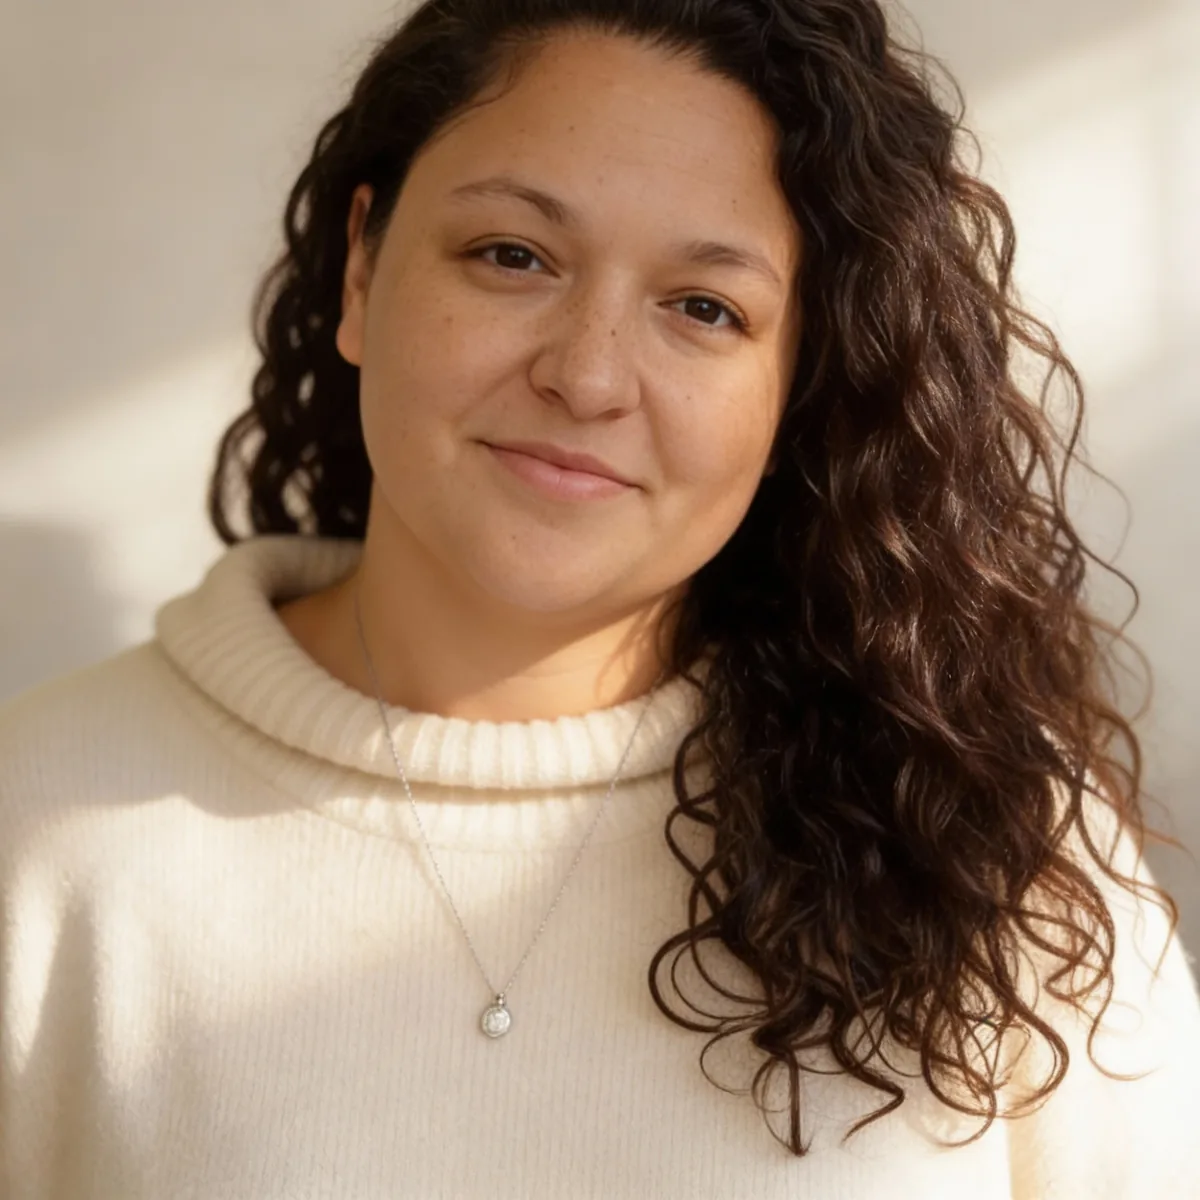
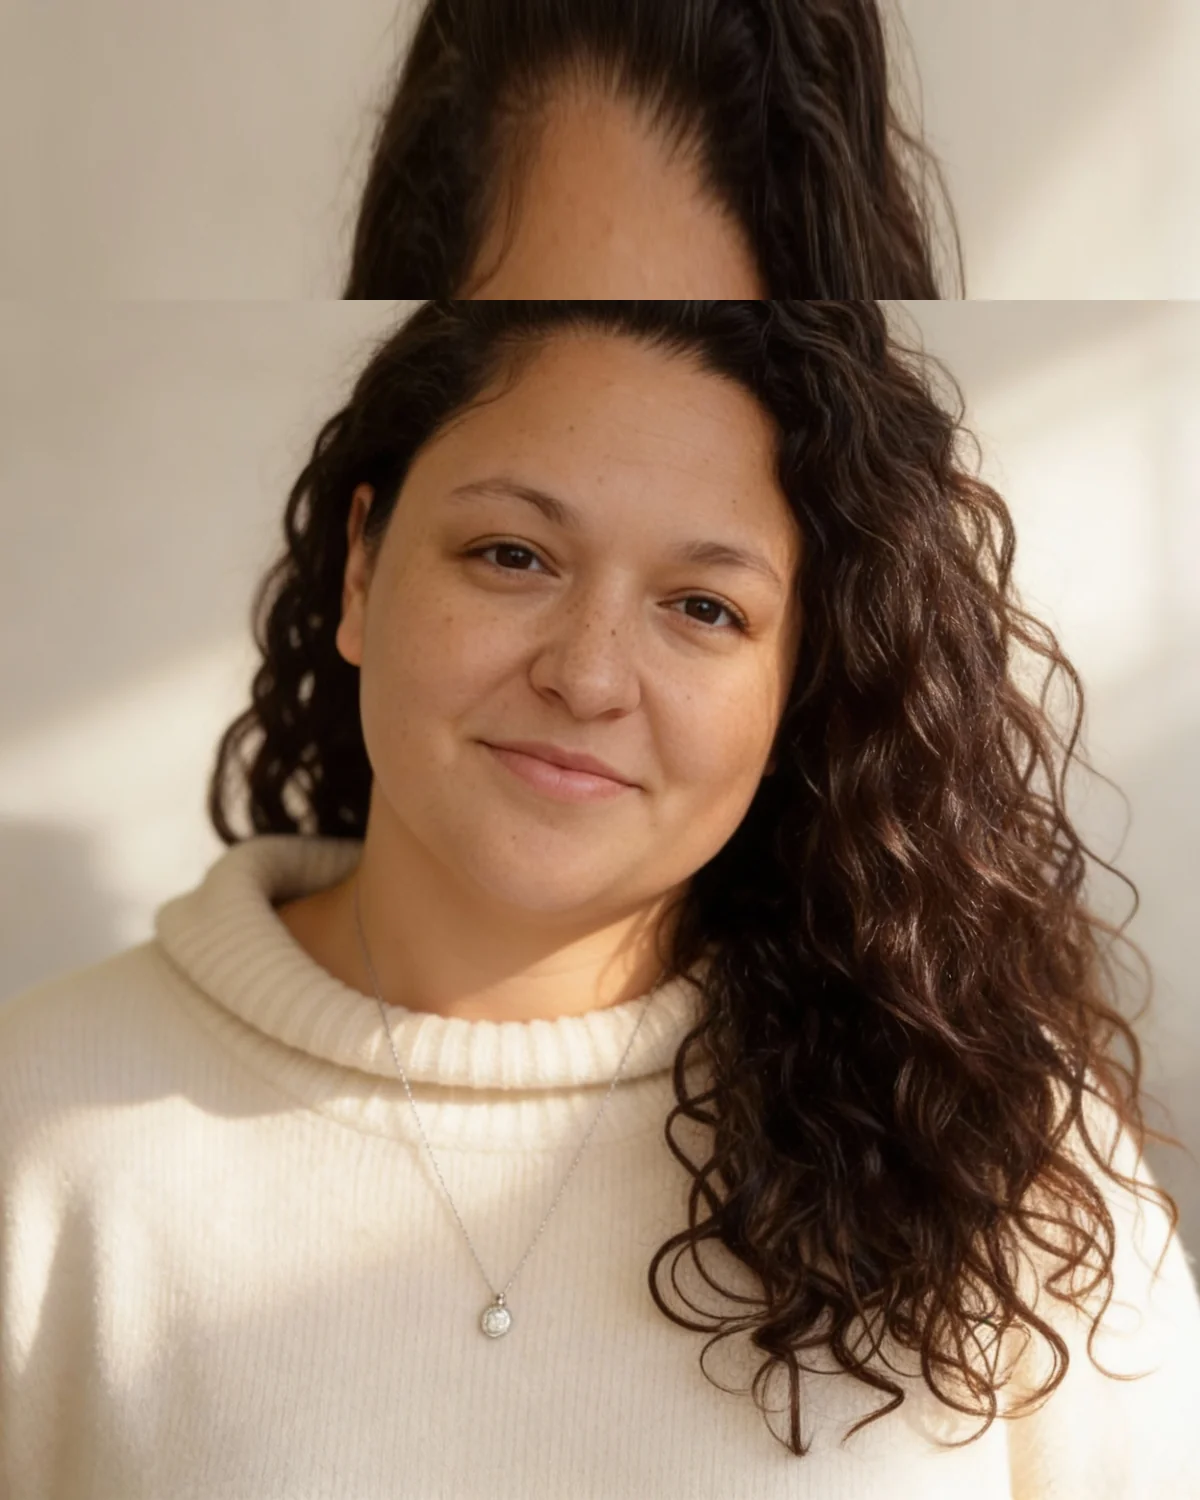
Fix bio head-clipping: use a cut-out on a soft panel with headroom
The source bio photo had no headroom (hair at the top edge). Replace it with a
background-removed cut-out sitting on a soft mint panel (object-fit: contain,
anchored bottom) so the full face shows with space above the head. Coral accent
block and marker note kept. Remove now-unused full-bleed hero/bio images.

Claude-Session: https://claude.ai/code/session_01JPVEBo2nPW4Vd1sxL5PPjP

diff --git a/index.html b/index.html
@@ -198,11 +198,11 @@
     /* photo with a color block behind it + a handwritten marker note */
     .photo-frame { position: relative; display: inline-block; width: 100%; }
     .photo-frame .ph { position: relative; z-index: 1; }
-    .ph--photo { background-image: url('/assets/img/about.webp'); background-size: cover;
-      background-position: 50% 30%; aspect-ratio: 1 / 1; }
-    .ph--photo::after { content: none; }
-    .photo-frame .block { position: absolute; z-index: 0; width: 58%; aspect-ratio: 1;
-      background: var(--c-mint); border-radius: var(--radius); right: -22px; bottom: -22px; }
+    .about-panel { position: relative; z-index: 1; aspect-ratio: 4 / 5; border-radius: var(--radius);
+      overflow: hidden; background: linear-gradient(165deg, #CFEAE4 0%, #EFF8F5 78%); }
+    .about-panel img { width: 100%; height: 100%; object-fit: contain; object-position: center bottom; display: block; }
+    .photo-frame .block { position: absolute; z-index: 0; width: 60%; aspect-ratio: 1;
+      background: var(--c-coral); border-radius: var(--radius); right: -22px; bottom: -22px; }
     .note-script { font-family: var(--font-script); font-weight: 600; color: var(--c-pink-deep);
       line-height: 1; }
     .photo-frame .note-script { position: absolute; z-index: 2; font-size: 2.3rem;
@@ -482,7 +482,9 @@
         <div class="reveal">
           <div class="photo-frame">
             <span class="block" aria-hidden="true"></span>
-            <div class="ph ph--photo" role="img" aria-label="Portrait of Priscilla"></div>
+            <div class="about-panel">
+              <img src="/assets/img/about-cutout.webp" width="1100" height="1100" alt="Priscilla">
+            </div>
             <span class="note-script" aria-hidden="true">hi, that's me!</span>
           </div>
           <p class="pullquote">Most marketers hand you a plan. I run it with you.</p>